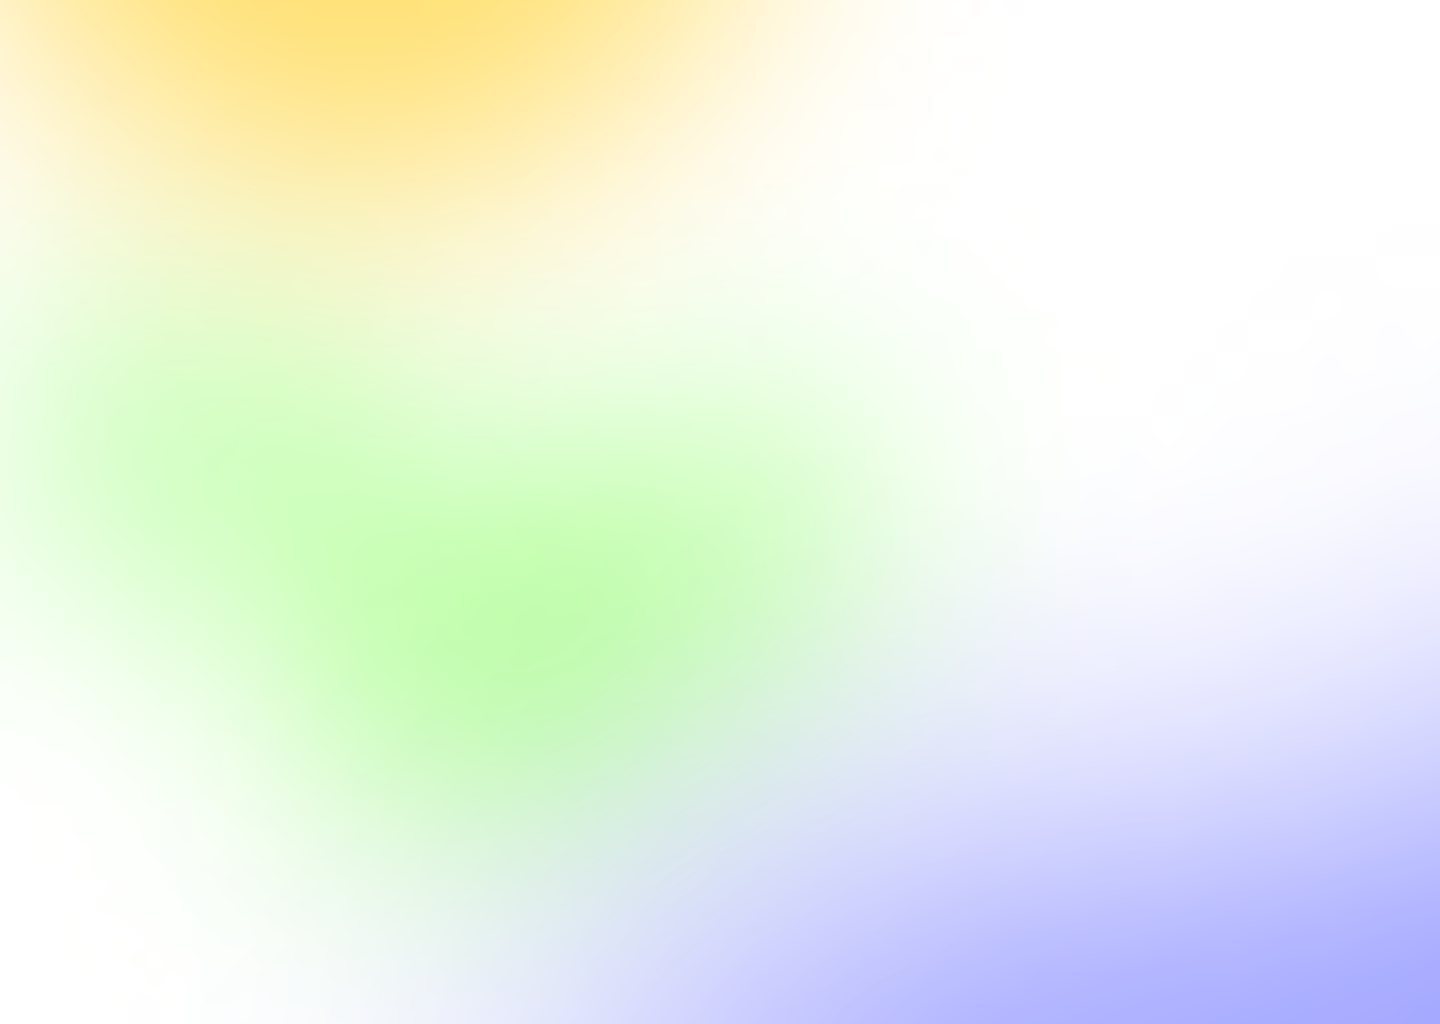
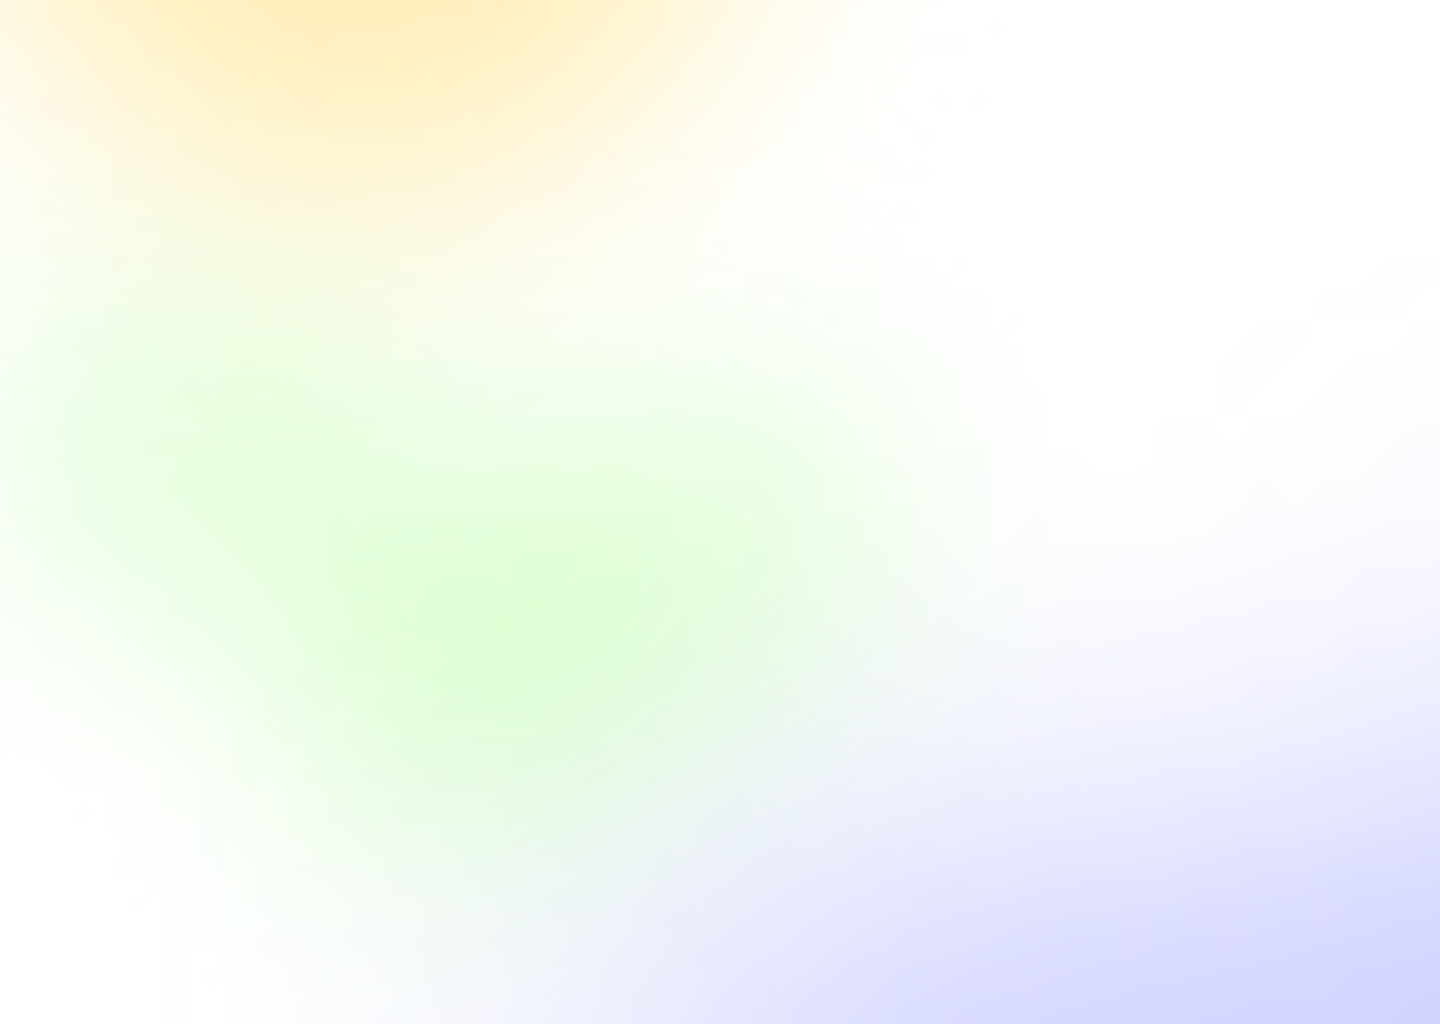
membuat page portofolio dan page blog

diff --git a/index.html b/index.html
@@ -22,9 +22,9 @@
         <header id="header">
             <h1>RaaF</h1>
             <div class="menu">
-                <a href="#" class="active">HOME</a>
-                <a href="">ABOUT</a>
-                <a href="">WORKS</a>
+                <a href="#landing" actve>HOME</a>
+                <a href="#about">ABOUT</a>
+                <a href="#portofolio">WORKS</a>
                 <a href="">HOBBY</a>
             </div>
             <div class="sosmed">
@@ -41,42 +41,90 @@
                 <h1>Ferdiasyah, I am a Front end Developer</h1>
             </div>
         </section>
-
-        <!-- about -->
-        <section id="about">
-            <div class="card-about">
-                <div class="image">
-                    <img src="foto/ferdi_1-removebg-preview.png" alt="aku">
+    </div>
+    <section id="about">
+        <div class="card-about">
+            <div class="image">
+                <img src="foto/ferdi_1-removebg-preview.png" alt="aku">
+            </div>
+            <div class="about-person">
+                <div class="my-name">
+                    <h1>Hai, my name is Mohammad Ferdiansyah</h1>
+                    <p>I am someone who enjoys learning new things and always strives to become a better person
+                        every
+                        day. I
+                        have interests in various fields, including technology, art, and language. In addition, I
+                        like
+                        to
+                        travel
+                        and explore new places to expand my knowledge and life experiences.</p>
                 </div>
-                <div class="about-person">
-                    <div class="my-name">
-                        <h1>Hai, my name is Mohammad Ferdiansyah</h1>
-                        <p>I am someone who enjoys learning new things and always strives to become a better person
-                            every
-                            day. I
-                            have interests in various fields, including technology, art, and language. In addition, I
-                            like
-                            to
-                            travel
-                            and explore new places to expand my knowledge and life experiences.</p>
+                <div class="personal">
+                    <div class="personal-one">
+                        <h3 class="hobby">Hobby : Playing soccer </h3>
+                        <h3 class="age">Age : 22 </h3>
                     </div>
-                    <div class="personal">
-                        <div class="personal-one">
-                            <h3 class="hobby">Hobby : Playing soccer </h3>
-                            <h3 class="age">Age : 22 </h3>
-                        </div>
-                        <div class="personal-two">
-                            <h3 class="loc">Location : Indonesia </h3>
-                            <h3 class="hobby">Email : Ferdiabidzar@gmail.com </h3>
-                        </div>
+                    <div class="personal-two">
+                        <h3 class="loc">Location : Indonesia </h3>
+                        <h3 class="hobby">Email : Ferdiabidzar@gmail.com </h3>
                     </div>
-                    <div class="cv">
-                        <button>Download CV</button>
+                </div>
+                <div class="cv">
+                    <button>Download CV</button>
+                </div>
+            </div>
+        </div>
+    </section>
+    <section id="portofolio">
+        <div class="title">
+            <h1>My Portofolio</h1>
+            <span>the result of my work that I worked on in the last few
+                months</span>
+            <div class="gallery-box">
+                <div class="grid-item">
+                    <img src="foto/sancho.jpg" alt="unsplash image" class="item-1" />
+                </div>
+                <div class="grid-item">
+                    <img src="foto/re.jpg" alt="unsplash image" class="item-4" />
+                </div>
+                <div class="grid-item">
+                    <img src="foto/prabowo copy.jpg" alt="unsplash image" class="item-3" />
+                </div>
+                <div class="grid-item">
+                    <img src="foto/olong.jpg" alt="unsplash image" class="item-2" />
+                </div>
+                <div class="grid-item">
+                    <img src="foto/Mockup0332 copy.jpg" unsplash image" class="item-5" />
+                </div>
+                <div class="grid-item">
+                    <img src="foto/free-photo-frame-with-plants-mockup.jpg" alt="unsplash image" class="item-6" />
+                </div>
+            </div>
+    </section>
+    <section id="blog">
+        <div class="blog-card">
+            <h1>My Article</h1>
+            <div class="blog-news">
+                <div class="image-news">
+                    <img src="foto/marcus-rashford-manchester-united-looks-807364659.jpg" alt="">
+                </div>
+                <div class="news">
+                    <div class="news-title">
+                        <h2>Marcus Rashford ingin bermain di posisi yang sangat berbeda setelah krisis kepercayaan,
+                            ungkap mantan pelatih Man Utd</h2>
+                        <span class="date">
+                            <i class="fa-regular fa-user" style="color: #4d4d4d;"><span>Henry Tomlinson</span></i>
+                        </span>
+                        <p>MANTAN pelatih Manchester United mengklaim bahwa Marcus Rashford ingin ditempatkan sebagai
+                            gelandang bertahan setelah mengalami krisis kepercayaan diri.</p>
+                    </div>
+                    <div class="read-more">
+                        <button>read more</button>
                     </div>
                 </div>
             </div>
-        </section>
-    </div>
+        </div>
+    </section>
 </body>
 
 </html>

diff --git a/style.css b/style.css
@@ -4,7 +4,7 @@
 }
 
 .wraper {
-    background-image: url(foto/bg.png);
+  background-color: white;
     background-size: cover;
 }
 
@@ -73,9 +73,11 @@ section {
     display: flex;
     align-items: center;
     justify-content: space-between;
+    background-color: #303030;
     box-shadow: 16px 16px 16px -4px rgba(10, 99, 169, 0.16),
-    -16px -16px 16px -4px rgba(255, 255, 255, 0.70);
+    -16px -16px 16px -4px rgba(255, 255, 255, 0.7);
     border-radius: 6px;
+    margin-top: 60px;
 }
 
 .about-person {
@@ -85,14 +87,14 @@ section {
     font-size: 32px;
     line-height: -16px;
     margin: 0 0;
-    color: #000000;
-    opacity: 0.8;
+    color: #ffffff;
+    /* opacity: 0.8; */
 }
 
 .my-name p {
     font-size: 14px;
-    color: #231a1a;
-    opacity: 0.8;
+    color: #ffffff;
+    /* opacity: 0.8; */
 }
 
 .personal {
@@ -100,6 +102,7 @@ section {
     font-size: 14px;
     padding: 0;
     column-gap: 60px;
+    color: white;
 }
 
 .personal, h3 {
@@ -116,11 +119,87 @@ section {
 
 .cv button {
     padding: 10px 24px;
-    background-color: #ABFF8D33;
+    background-color: transparent;
     border: none;
-    box-shadow: 3px 3px 3px -1px rgba(10, 99, 169, 0.16),
-    -3px 3px 3px -1px rgba(255, 255, 255, 0.70);
+    color: #ffffff;
+    border: 1px solid #ffffff;
     border-radius: 4px;
     cursor: pointer;
     font-style: initial;
+}
+
+#portofolio {
+    display: flex;
+    text-align: center;
+    justify-content: center;
+    background-color: #000000;
+}
+
+.title h1 {
+    font-size: 24px;
+    margin: 0;
+    color: #ffffff;
+}
+
+.title span {
+    margin: 40px;
+    color: white;
+}
+.gallery-box {
+    display: grid;
+    grid-template-columns: repeat(3,250px);
+    grid-template-rows: auto;
+    gap: 20px;
+}
+
+.gallery-box .grid-item {
+    cursor: pointer;
+    position: relative;
+    /* overflow: hidden; */
+}
+
+.gallery-box .grid-item img {
+    width: 100%;
+    height: auto;
+    border-radius: 8px;
+    object-fit: cover;
+    transition: .3s;
+}
+
+.gallery-box .grid-item:hover img {
+    filter: brightness(.5);
+}
+
+#blog {
+    display: flex;
+    flex-direction: row;
+    align-items: center;
+}
+
+.blog-news {
+    display: flex;
+    flex-direction: row;
+    justify-content: space-between;
+    padding: 0px;
+}
+.image-news img {
+    width: 446px;
+    height: 280px;
+}
+
+.news {
+    margin-left: 46px;
+    line-height: 26px;
+}
+
+.news-title h2{
+    margin: 0px;
+    margin-bottom: 10px;
+}
+
+.read-more button {
+    color: #000000;
+    background:transparent;
+    border: 1px solid #000000;
+    border-radius: 8px;
 }
